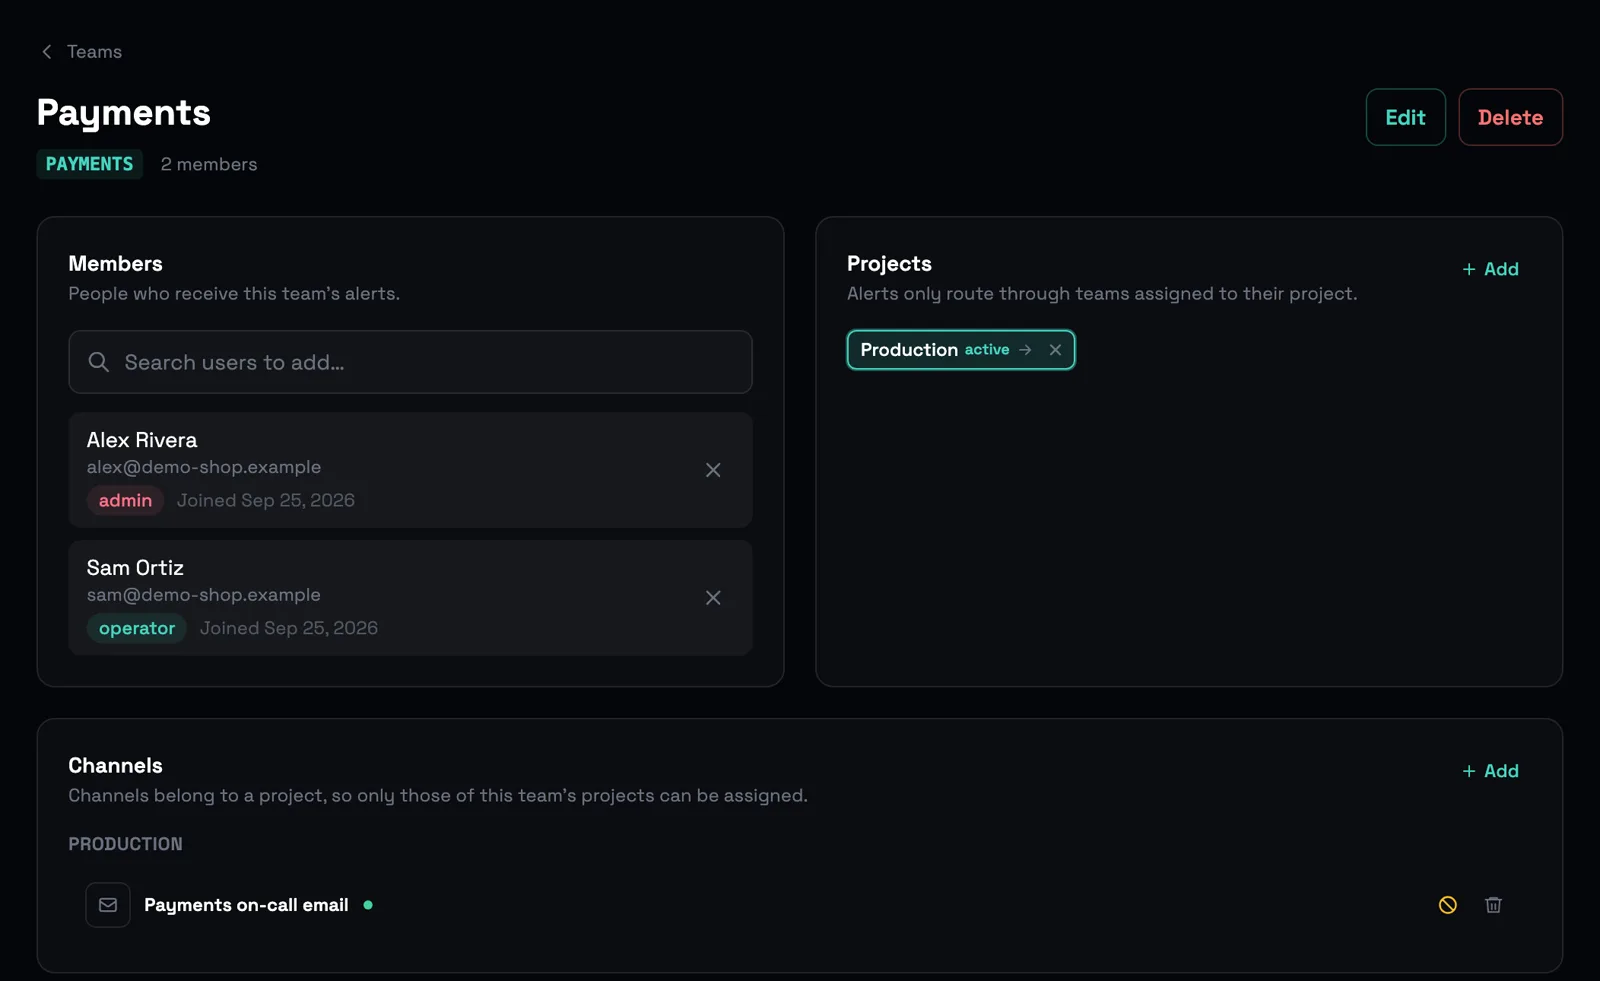
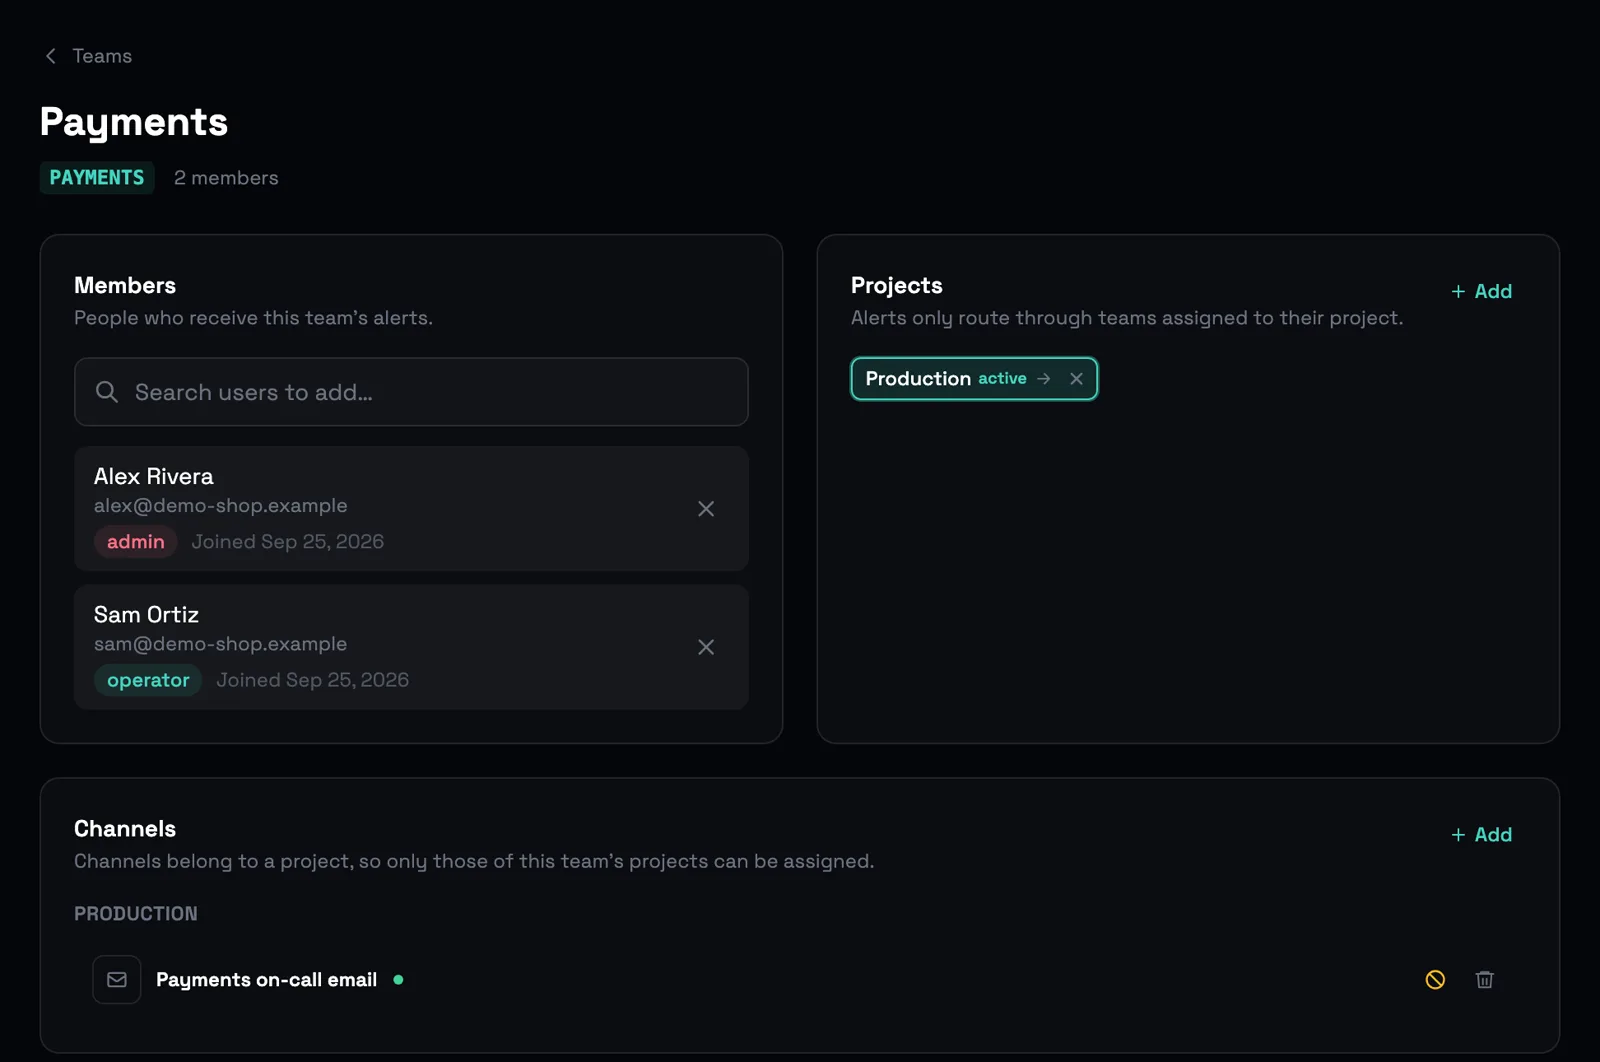
Recapture app screenshots without page actions and at equal heights
Monitor and signal screens now share one aspect ratio, so their captions
line up. Contact support, Refresh, Edit, Pause and Delete are hidden for
the capture; Acknowledge and Resolve stay on the alert because the
section describes them. Captured at 1040px so the interface reads larger.

diff --git a/index.html b/index.html
@@ -1046,10 +1046,10 @@
 
         <div class="st-feature-visual">
           <figure class="st-shot" data-for="fp-dedup">
-            <picture><source media="(max-width: 760px)" srcset="/public/img/app/alert-detail-m.webp" width="900" height="612"><img src="/public/img/app/alert-detail-1600.webp" srcset="/public/img/app/alert-detail-800.webp 800w, /public/img/app/alert-detail-1600.webp 1600w" sizes="(max-width: 900px) 92vw, 760px" width="1600" height="1087" alt="Sigtake alert detail: Payment webhook timeout, critical, firing, fired ×25 since first seen, team Payments, with activity showing it fired again 24 times." loading="lazy" decoding="async"></picture>
+            <picture><source media="(max-width: 760px)" srcset="/public/img/app/alert-detail-m.webp" width="900" height="653"><img src="/public/img/app/alert-detail-1600.webp" srcset="/public/img/app/alert-detail-800.webp 800w, /public/img/app/alert-detail-1600.webp 1600w" sizes="(max-width: 900px) 92vw, 760px" width="1600" height="1160" alt="Sigtake alert detail: Payment webhook timeout, critical, firing, fired ×25 since first seen, team Payments, with activity showing it fired again 24 times." loading="lazy" decoding="async"></picture>
           </figure>
           <figure class="st-shot" data-for="fp-routing" hidden>
-            <picture><source media="(max-width: 760px)" srcset="/public/img/app/team-detail-m.webp" width="900" height="552"><img src="/public/img/app/team-detail-1600.webp" srcset="/public/img/app/team-detail-800.webp 800w, /public/img/app/team-detail-1600.webp 1600w" sizes="(max-width: 900px) 92vw, 760px" width="1600" height="981" alt="Sigtake team detail: the Payments team, code PAYMENTS, its members, the Production project and the Payments on-call email channel." loading="lazy" decoding="async"></picture>
+            <picture><source media="(max-width: 760px)" srcset="/public/img/app/team-detail-m.webp" width="900" height="597"><img src="/public/img/app/team-detail-1600.webp" srcset="/public/img/app/team-detail-800.webp 800w, /public/img/app/team-detail-1600.webp 1600w" sizes="(max-width: 900px) 92vw, 760px" width="1600" height="1062" alt="Sigtake team detail: the Payments team, code PAYMENTS, its members, the Production project and the Payments on-call email channel." loading="lazy" decoding="async"></picture>
           </figure>
           <figure class="st-shot st-notify" data-for="fp-channels" hidden aria-label="The same incident delivered by Slack, email, Microsoft Teams and in-app">
             <div class="st-card st-card-slack">
@@ -1113,11 +1113,11 @@
       </div>
       <div class="st-mon-grid">
         <figure class="st-mon-item">
-          <picture><source media="(max-width: 760px)" srcset="/public/img/app/monitor-detail-m.webp" width="900" height="590"><img src="/public/img/app/monitor-detail-1600.webp" srcset="/public/img/app/monitor-detail-800.webp 800w, /public/img/app/monitor-detail-1600.webp 1600w" sizes="(max-width: 900px) 92vw, 680px" width="1600" height="1049" alt="Sigtake website monitor for Public API: 100% uptime over 24 hours, 7 and 30 days, a 90-day uptime bar, response time chart, and an SSL certificate that expires in 7 days." loading="lazy" decoding="async"></picture>
+          <picture><source media="(max-width: 760px)" srcset="/public/img/app/monitor-detail-m.webp" width="900" height="639"><img src="/public/img/app/monitor-detail-1600.webp" srcset="/public/img/app/monitor-detail-800.webp 800w, /public/img/app/monitor-detail-1600.webp 1600w" sizes="(max-width: 900px) 92vw, 680px" width="1600" height="1136" alt="Sigtake website monitor for Public API: 100% uptime over 24 hours, 7 and 30 days, a 90-day uptime bar, response time chart, and an SSL certificate that expires in 7 days." loading="lazy" decoding="async"></picture>
           <figcaption><strong>Website &amp; SSL</strong>Checks every 60 seconds on status, latency and the response body, with JSONPath assertions and encrypted secret headers for authenticated endpoints. Certificates get their own alert 14 days ahead, with reminders at 7, 3 and 1.</figcaption>
         </figure>
         <figure class="st-mon-item">
-          <picture><source media="(max-width: 760px)" srcset="/public/img/app/signal-detail-m.webp" width="900" height="462"><img src="/public/img/app/signal-detail-1600.webp" srcset="/public/img/app/signal-detail-800.webp 800w, /public/img/app/signal-detail-1600.webp 1600w" sizes="(max-width: 900px) 92vw, 680px" width="1600" height="821" alt="Sigtake signal for the orders worker: queue depth readings over 24 hours with anomaly detection active and a spike well above normal." loading="lazy" decoding="async"></picture>
+          <picture><source media="(max-width: 760px)" srcset="/public/img/app/signal-detail-m.webp" width="900" height="639"><img src="/public/img/app/signal-detail-1600.webp" srcset="/public/img/app/signal-detail-800.webp 800w, /public/img/app/signal-detail-1600.webp 1600w" sizes="(max-width: 900px) 92vw, 680px" width="1600" height="1136" alt="Sigtake signal for the orders worker: queue depth readings over 24 hours with anomaly detection active and a spike well above normal." loading="lazy" decoding="async"></picture>
           <figcaption><strong>Signals</strong>Push any number with <code>signals.send()</code>. Thresholds over a window (avg, sum, count, min, max or last), anomaly detection that learns normal for the hour and weekday, and a heartbeat when a metric stops reporting.</figcaption>
         </figure>
       </div>
